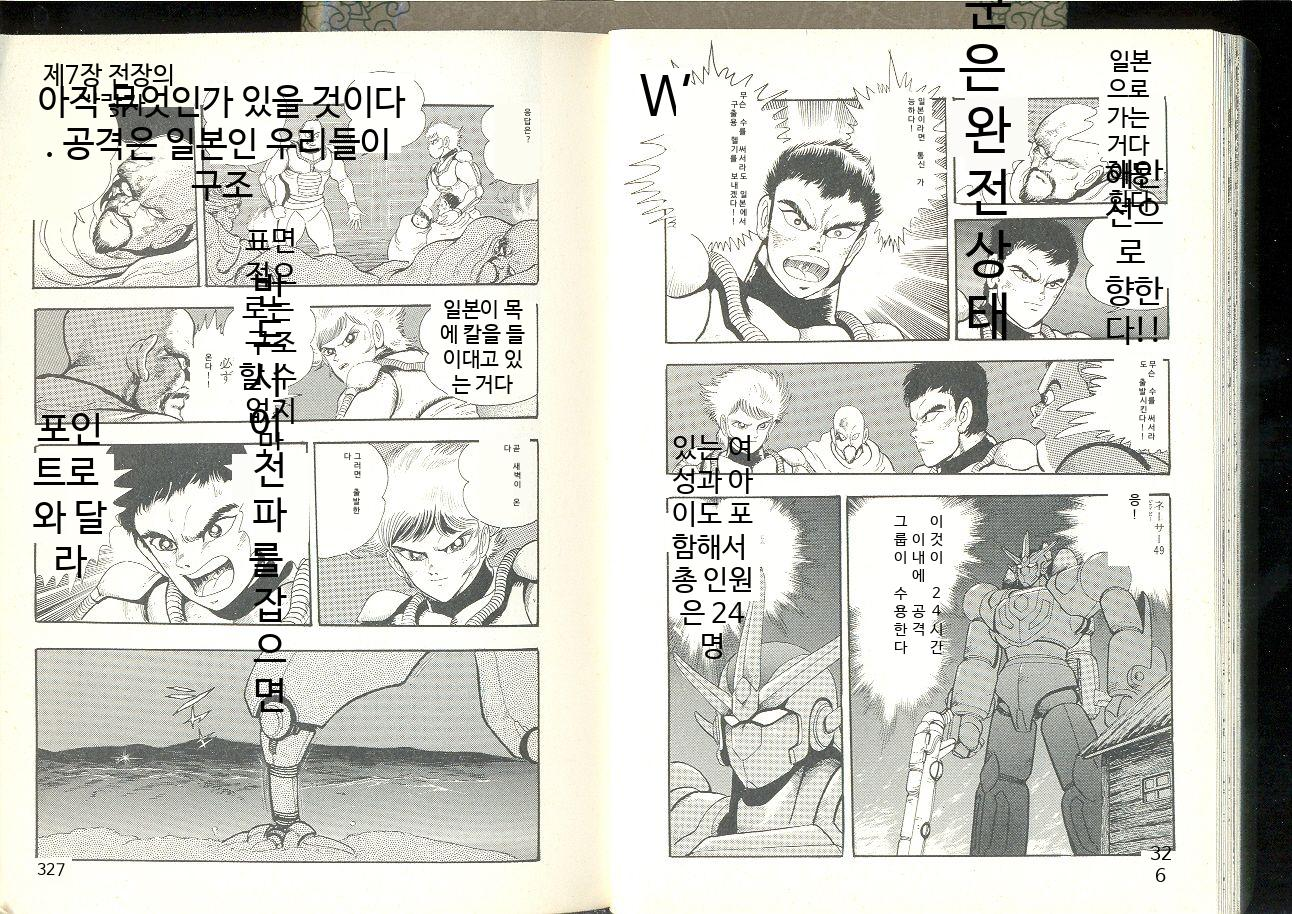
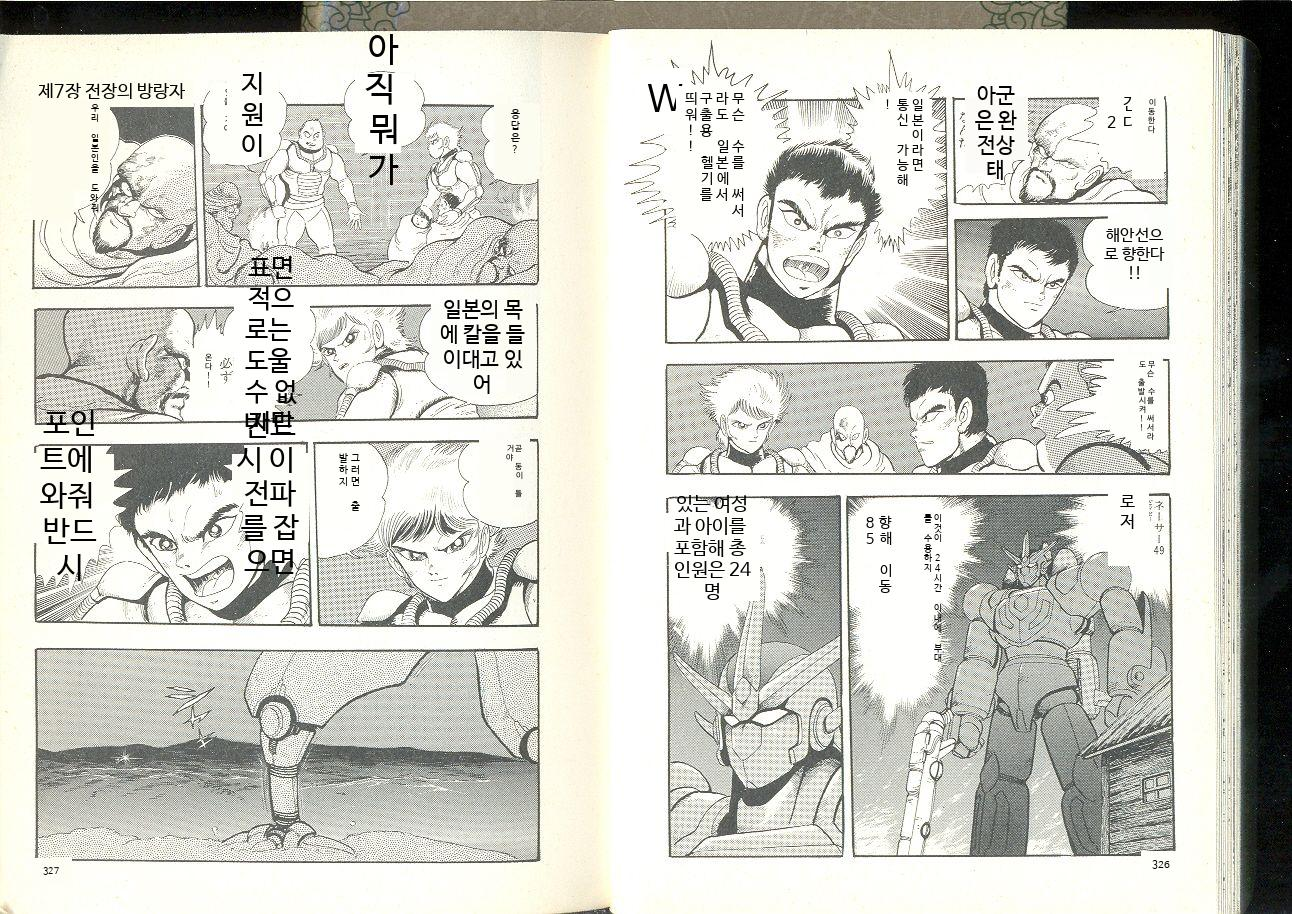
fix(render): 원본 텍스트 글자 수 + bbox로 폰트 크기 정밀 추정
- 세로쓰기: min(bbox폭, bbox높이/글자수)
- 가로쓰기: min(bbox높이, bbox폭/글자수)
- 그룹 내 최대값으로 통일
- 원본과 거의 동일한 폰트 크기 달성

diff --git a/render.py b/render.py
@@ -222,16 +222,21 @@ def run_render(
             _erase_rect(draw, img, bx1, by1, bx2, by2)
             bbox_rects.append((bx1, by1, bx2, by2))
 
-        # 2단계: 원본 bbox에서 폰트 크기 추정 → 최대값 사용
+        # 2단계: 원본 텍스트 + bbox에서 폰트 크기 추정 → 최대값 사용
+        original_texts = item.get("original_texts", [])
         estimated_sizes = []
-        for bx1, by1, bx2, by2 in bbox_rects:
+        for idx, (bx1, by1, bx2, by2) in enumerate(bbox_rects):
             bw, bh = bx2 - bx1, by2 - by1
             if bw <= 0 or bh <= 0:
                 continue
+            n = len(original_texts[idx]) if idx < len(original_texts) else 1
+            n = max(1, n)
             if bh > bw * 1.5:
-                estimated_sizes.append(bw)
+                # 세로쓰기: 높이를 글자 수로 나누고, 폭과 비교하여 작은 값
+                estimated_sizes.append(min(bw, int(bh / n)))
             else:
-                estimated_sizes.append(bh)
+                # 가로쓰기: 폭을 글자 수로 나누고, 높이와 비교하여 작은 값
+                estimated_sizes.append(min(bh, int(bw / n)))
         font_size = max(estimated_sizes) if estimated_sizes else MIN_FONT_SIZE
         font_size = max(MIN_FONT_SIZE, font_size)
 
